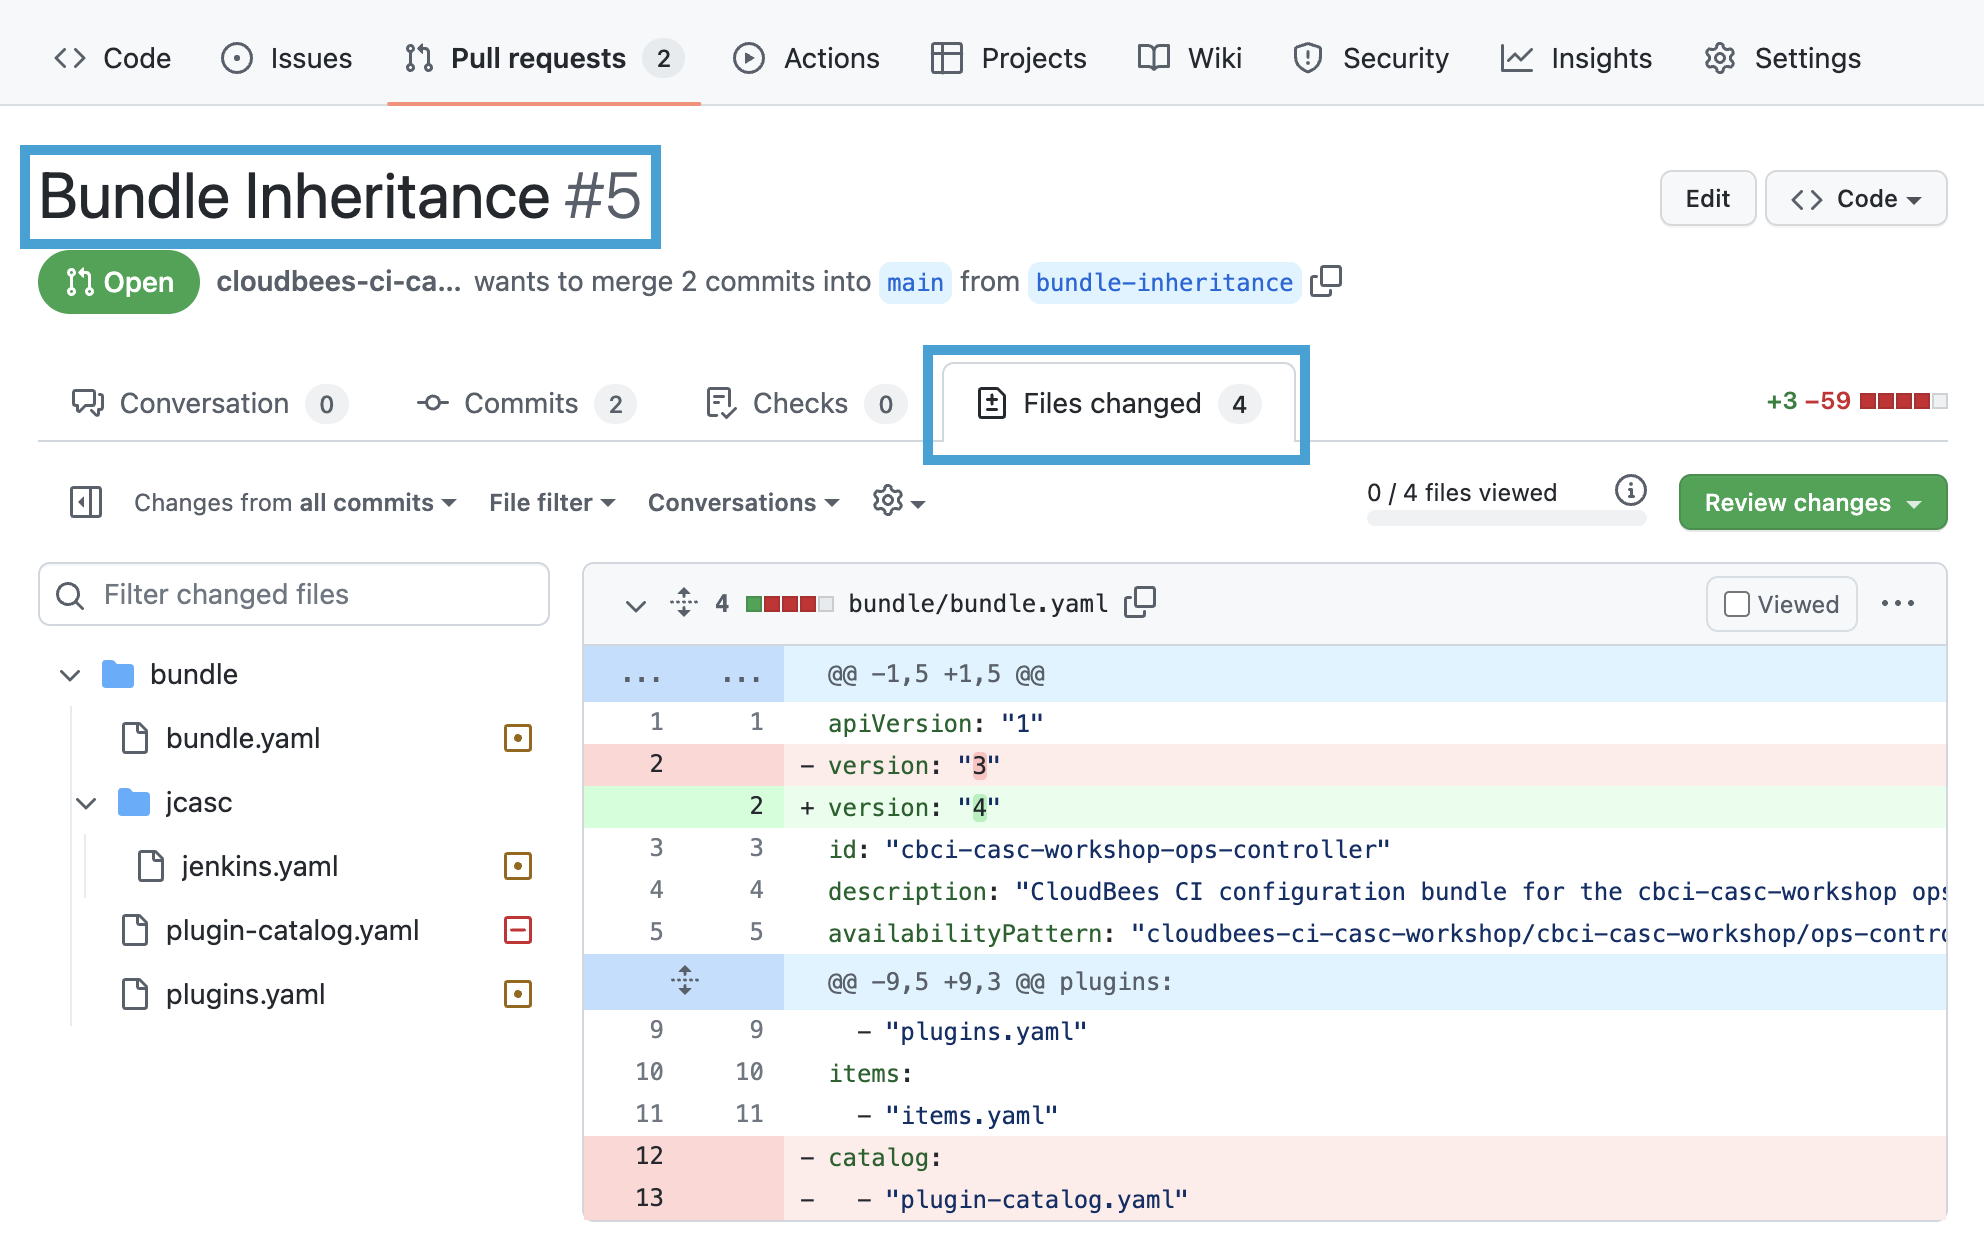
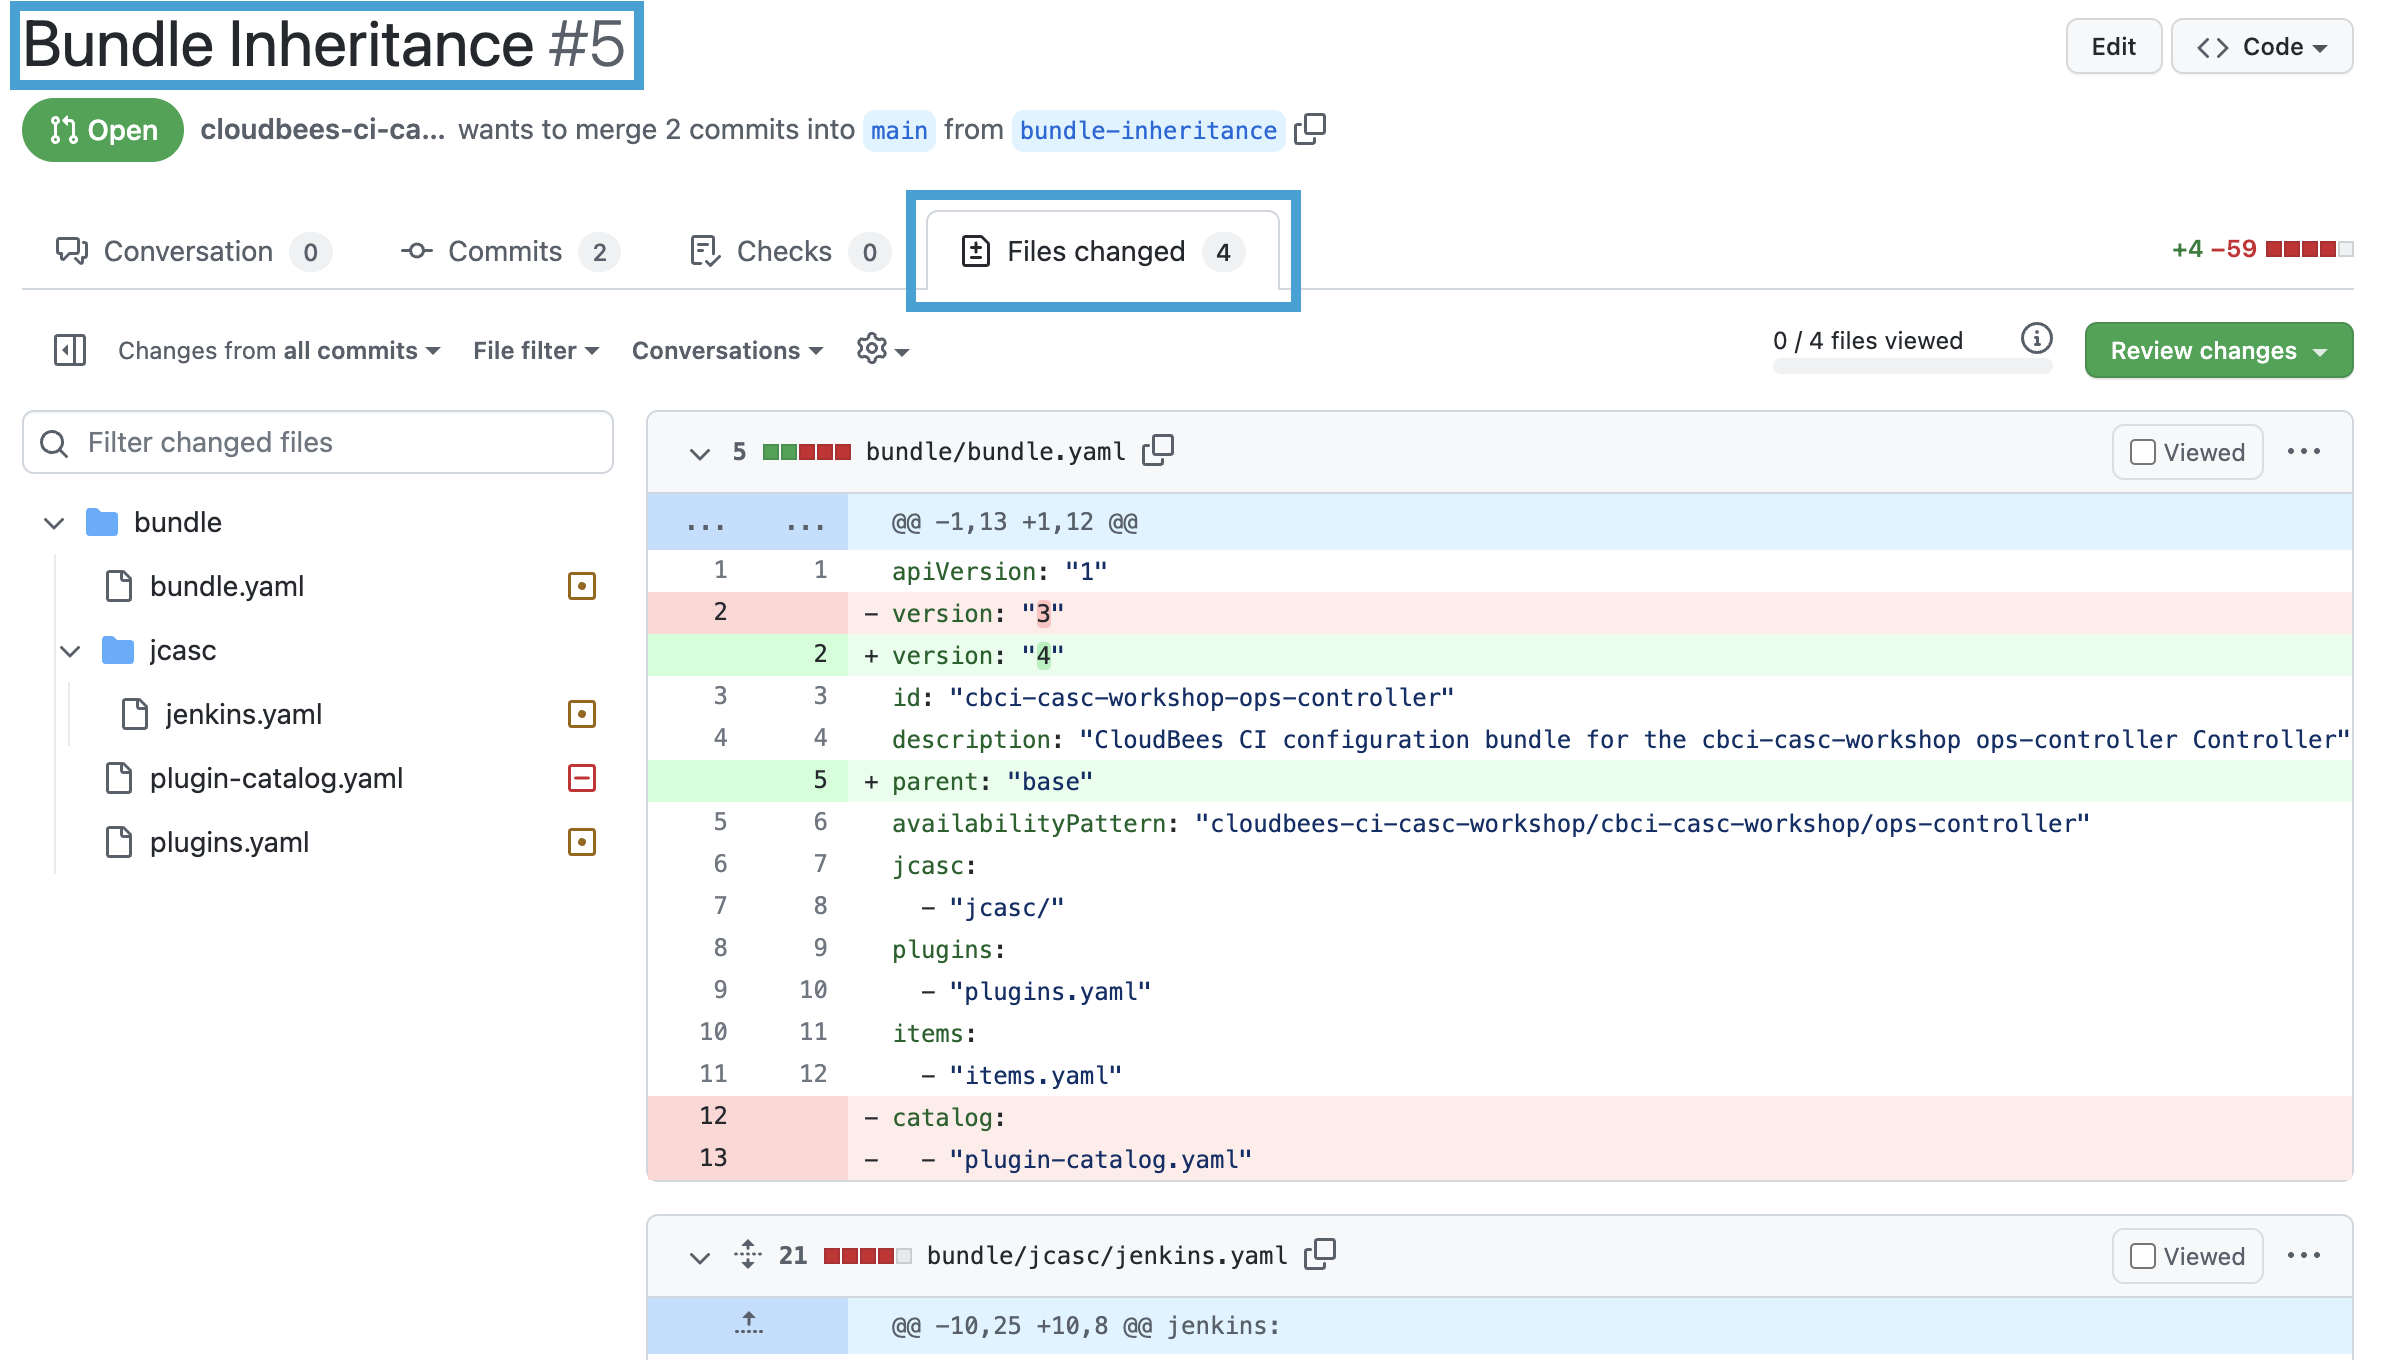
updates for bundle folder, use of PRs and updated CBCI UI

diff --git a/labs/cloudbees-ci-casc/content/labs/casc-rbac.md b/labs/cloudbees-ci-casc/content/labs/casc-rbac.md
@@ -28,76 +28,14 @@ In addition to using CasC to configure RBAC for your dev controller, we will als
 
 1. Navigate to your workshop GitHub Organization click on the link for your copy of the **dev-controller** repository, click on the **Pull requests** tab and then click on the link for the **Controller RBAC** pull request.
 2. On the next screen, click on the **Files changed** tab to review the files being updated and added to your `dev-controller` repository.
-```yaml
-removeStrategy:
-  rbac: SYNC
-roles:
-- name: authenticated
-  filterable: 'true'
-  permissions:
-  - hudson.model.Hudson.Read
-  - hudson.model.Item.Read
-  - hudson.model.View.Read
-- name: administrator
-  permissions:
-  - hudson.model.Hudson.Administer
-- name: manager
-  filterable: 'true'
-  permissions:
-  - hudson.model.Hudson.SystemRead
-  - hudson.model.Hudson.Manage
-  - com.cloudbees.plugins.credentials.CredentialsProvider.View
-  - com.cloudbees.pipeline.governance.templates.catalog.TemplateCatalogAction.ViewCatalogs
-  - com.cloudbees.jenkins.plugin.metrics.views.Alerter.View
-  - nectar.plugins.rbac.groups.Group.View
-  - nectar.plugins.rbac.roles.Role.View
-groups:
-- name: Administrators
-  members:
-    users:
-    - admin
-    - team-admin
-    - "REPLACE_GITHUB_USERNAME-admin"
-  roles:
-  - name: administrator
-    grantedAt: current
-- name: Managers
-  members:
-    users:
-    - "REPLACE_GITHUB_USERNAME"
-  roles:
-  - name: manager
-    grantedAt: current
-```
-3. Name the new file `rbac.yaml`, copy the `rbac` configuration from above and paste it into the GitHub file editor. **Important**: replace the two `REPLACE_GITHUB_USERNAME` placeholders with your GitHub username. Then select the option to **"Create a new branch for this commit and start a pull request"**, name the branch `add-rbac` and then click the **Propose changes** button. ![Create rbac.yaml](github-commit-rbac-yaml.png?width=50pc)
-4. On the next screen click the **Create pull request** button to create a pull request to merge to the `main` branch when you are done updating your `dev-controller` configuration bundle. ![Create RBAC pull request](github-create-rbac-pr.png?width=50pc)
-5. Navigating back to the top level of your `dev-controller` repository and ensuring that you are on the ` add-rbac` branch, click on the `bundle.yaml` file and then click on the ***Edit this file*** pencil button to edit the file. 
-6. Update the bundle `version` to **2** and add the following `rbac` section:
-```yaml
-rbac:
-  - "rbac.yaml"
-```
-
-{{%expand "expand for complete bundle.yaml file" %}}
-```yaml
-apiVersion: "1"
-version: "2"
-id: "cbci-casc-workshop-dev-controller"
-description: "CloudBees CI configuration bundle for the cbci-casc-workshop dev-controller Controller"
-parent: "base"
-rbac:
-  - "rbac.yaml"
-  ```
-{{% /expand%}}
-
-7. After you have made the changes, ensure that you are committing to the `add-rbac` branch and then click the **Commit changes** button. ![Commit bundle.yaml with rbac](github-commit-rbac-bundle-yaml.png?width=50pc)
-8. Now that we have added the `rbac.yaml` and updated the `bundle.yaml`,  we can now merge the pull request to the `main` branch. In GitHub, click on the **Pull requests** tab and then click on the link for the **Create rbac.yaml** pull request. ![rbac pull request link](github-rbac-pr-link.png?width=50pc)
-9. On the **Create rbac.yaml #1** pull request page, click the **Merge pull request** button and then click the **Confirm merge** button.
-10. Navigate to the `main` branch job of the `dev-controller` Multibranch pipeline project on your Ops controller. ![dev-controller Mulitbranch](dev-controller-multibranch-jcasc.png?width=50pc)
-11. After the the `main` branch job has completed successfully, navigate to the top level of your **dev controller**, click on the **Manage Jenkins** link in the left menu.
-14. You will see a *Manage Jenkins* page with fewer items and the left navigation will have fewer items. Also, many of the configuration items that are still available are view only. ![After Delegating Admin](after-delegating-admin.png?width=85pc)
-15. Click on **Manage Plugins**, click on the **Available** tab and search for *CloudBees*.  Note that you can see what plugins are available but you cannot install plugins. In order to install or update plugins (or other configuration) you will need to update and reload the CasC bundle for your Managed Controller. ![View Only Plugin Management](plugins-view-only.png?width=60pc)
-16. Finally, navigate to the top level of your dev controller and you will see that you cannot create any items (or jobs). We will fix that in the next section by creating a folder with RBAC that allows you to create jobs in that folder.
+3. Note that we incremented the `bundle.yaml` `version` to 2, added an `rbac` entry and added the `bundle/rbac.yaml` file.  ![bundle.yaml changes](bundel-yaml-changes.png?width=50pc)
+4. Click on the `rbac.yaml` file. Note that we are adding two roles, `administrator` and `manager`; and creating two groups using those roles with your regular user being added as a member of the `Managers` group and your admin user being added to the `Administrators` group.  ![rbac.yaml changes](rbac-yaml-changes.png?width=50pc)
+5. Once you have finished reviewing the changes, click on the **Conversation** tab of the **Controller RBAC** pull request, scroll down and click the green **Merge pull request** button and then click the **Confirm merge** button.
+6. Navigate to the `main` branch job of the `dev-controller` Multibranch pipeline project on your Ops controller. ![dev-controller Mulitbranch](dev-controller-multibranch-jcasc.png?width=50pc)
+7. After the the `main` branch job has completed successfully, navigate to the top level of your **dev controller**, click on the **Manage Jenkins** link in the left menu.
+8. You will see a *Manage Jenkins* page with fewer items and the left navigation will have fewer items. Also, many of the configuration items that are still available are view only. ![After Delegating Admin](after-delegating-admin.png?width=85pc)
+9. Click on **Manage Plugins**, click on the **Available** tab and search for *CloudBees*.  Note that you can see what plugins are available but you cannot install plugins. In order to install or update plugins (or other configuration) you will need to update and reload the CasC bundle for your Managed Controller. ![View Only Plugin Management](plugins-view-only.png?width=60pc)
+10. Finally, navigate to the top level of your dev controller and you will see that you cannot create any items (jobs). In the next section we will create a folder with RBAC that allows you to create jobs in that folder.
 
 ## Adding a Folder with RBAC to a Configuration Bundle
 
